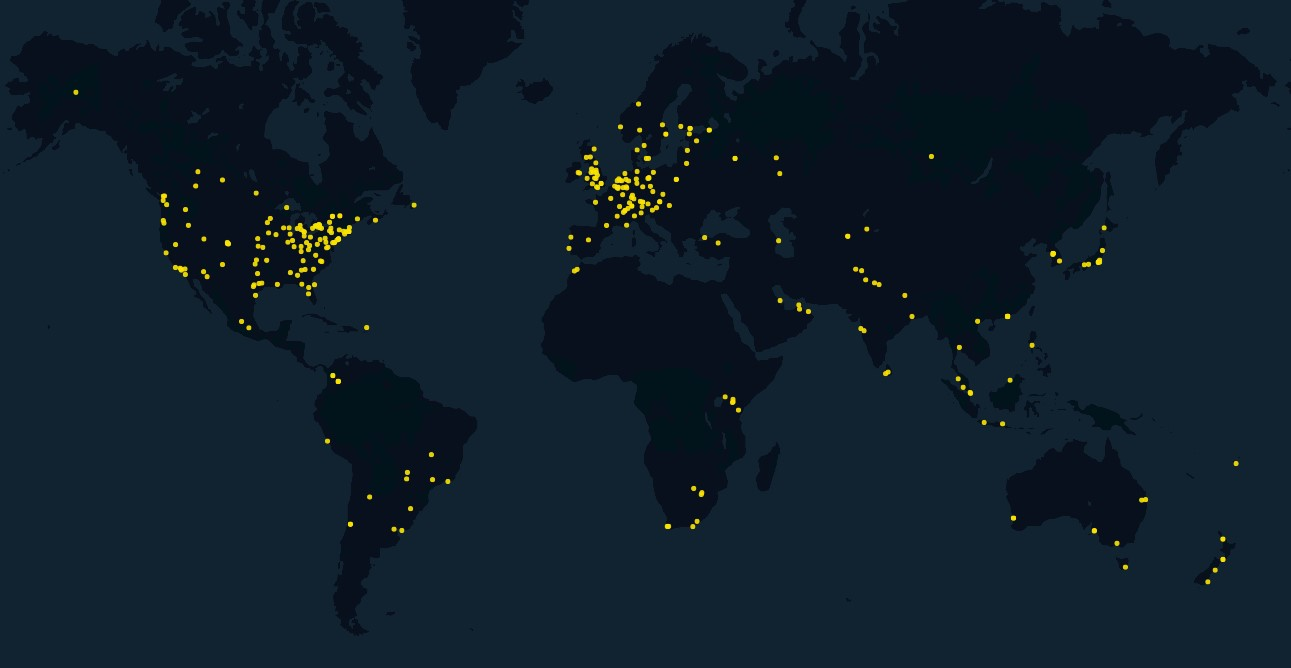
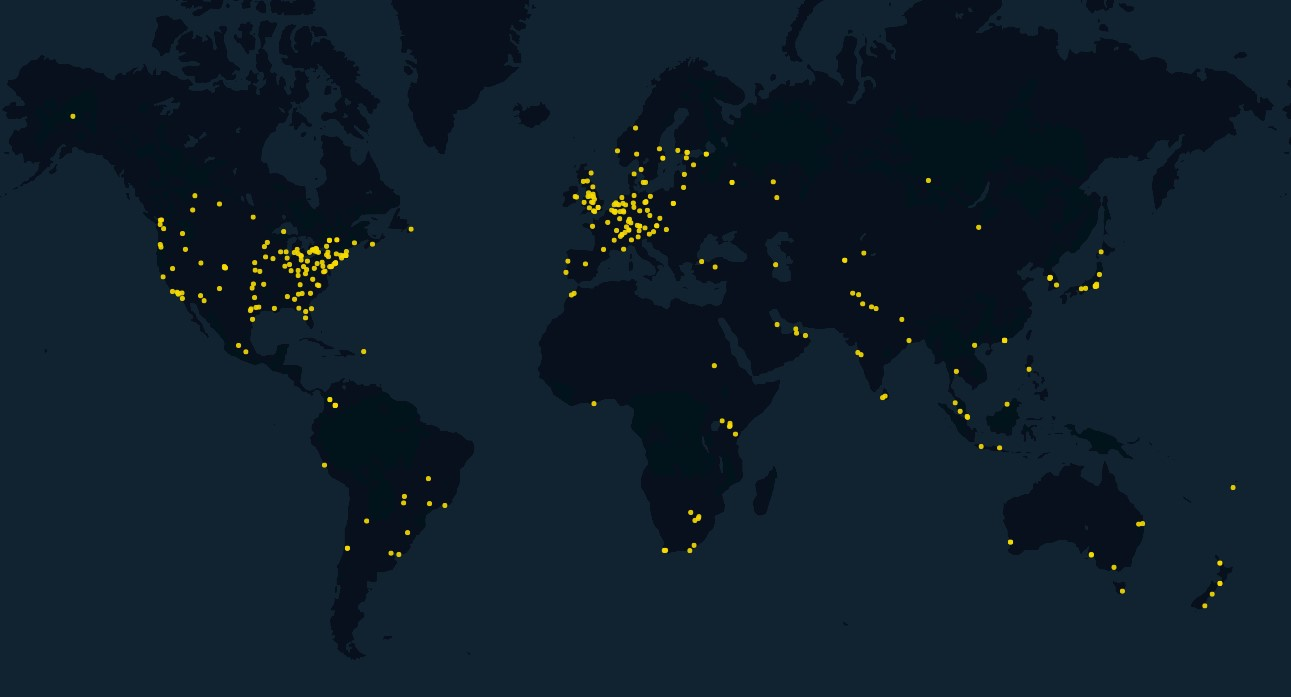
africa

diff --git a/pages/africa/south_africa.md b/pages/africa/south_africa.md
@@ -83,3 +83,11 @@ Cape Town, Western Cape, South Africa
 Unit: [Faculty of Engineering & the Built Environment](https://www.cput.ac.za/academic/faculties/engineering)
 
 The Faculty of Engineering & the Built Environment at CPUT operates a [M.Tech program in Cartography](https://www.cput.ac.za/academic/faculties/engineering/prospectus/course?i=132&seo=TVRlY2g6IENBUlRPR1JBUEhZ) under its Civil Engineering & Geomatics department. In addition to this, the department also operates several undergraduate and non-degree programs in geomatics.
+
+### North-West University
+
+Potchefstroom, North-West, South Africa
+
+Unit: [School of Geo and Spatial Sciences](https://natural-sciences.nwu.ac.za/geo-spatial-sciences/about-us) and [Unit for Environmental Sciences and Management](https://natural-sciences.nwu.ac.za/unit-environmental-sciences-and-management)
+
+The North-West University offers postgraduate diploma training, MSc, and PhD programs in geospatial sciences under the School of Geo and Spatial Sciences, as well as MSc and PhD programs in Urban and Regional Planning under its Unit for Environmental Sciences and Management.

diff --git a/pages/asia/mongolia.md b/pages/asia/mongolia.md
@@ -1,0 +1,9 @@
+## Mongolia
+
+### National University of Mongolia
+
+Ulaanbaatar, Mongolia
+
+Unit: [School of Applied Sciences and Engineering](http://seas.num.edu.mn/)
+
+The National University of Mongolia is the first modern university in Mongolia. It has opportunities for master's and PhD studies in several geography or ecology-related disciplines, such as the [Masters in Forestry (class-based)](http://seas.num.edu.mn/dep/defe/training/master/21/detail/), [Masters in Forestry (thesis-based)](http://seas.num.edu.mn/dep/defe/training/master/20/detail/), [Master in Environmental Sciences](http://seas.num.edu.mn/dep/defe/training/master/19/detail/), [Master in Environment Protection Technology](http://seas.num.edu.mn/dep/defe/training/master/17/detail/), [Doctor in Forestry](http://seas.num.edu.mn/dep/defe/training/doctor/10/detail/) and [Doctor in Environmental Studies](http://seas.num.edu.mn/dep/defe/training/doctor/7/detail/).

diff --git a/README.md b/README.md
@@ -120,6 +120,8 @@ To date, we have summarized more than 270 GIS programs in more than 35 countries
 
 [Central Asia](https://gisphere.github.io/pages/asia/central_asia.html)
 
+[Mongolia](https://gisphere.github.io/pages/asia/mongolia.html)
+
 **Oceania**
 
 [Australia](https://gisphere.github.io/pages/asia/Australia.html)
@@ -143,11 +145,15 @@ To date, we have summarized more than 270 GIS programs in more than 35 countries
 
 [Botswana](https://gisphere.github.io/pages/africa/Botswana.html)
 
+[Ghana](https://gisphere.github.io/pages/africa/ghana.html)
+
 [Kenya](https://gisphere.github.io/pages/africa/kenya.html)
 
 [Morocco](https://gisphere.github.io/pages/africa/morocco.html)
 
 [South Africa](https://gisphere.github.io/pages/africa/south_africa.html)
+
+[Sudan](https://gisphere.github.io/pages/africa/sudan.html)
 
 [Nigeria](https://gisphere.github.io/pages/africa/nigeria.html) - coming soon
 

diff --git a/pages/africa/sudan.md b/pages/africa/sudan.md
@@ -1,0 +1,23 @@
+## Sudan
+
+### University of Khartoum
+
+Khartoum, Sudan
+
+Unit: [Graduate College](https://graduate.uofk.edu/)
+
+The University of Khartoum is the largest and oldest university in Sudan. The university has several relevant programs, including:
+- PhD in Cartography and GIS
+- PhD in GIS and Remote Sensing
+- PhD in Geographical and Environmental Sciences
+- PhD in Geographical Planning and Development
+- PhD in Forestry
+- PhD in Surveying Engineering
+- PhD in Environmental Sciences
+- Master of Science in GIS and Remote Sensing
+- Master of Science in Geomatics Engineering
+- Master of Public and Environmental Health
+- Master in Environmental Forestry
+- Master of Science in Urban Design
+- Master of Science in Urban Planning and Management
+The complete graduate program list can be accessed [here](https://graduate.uofk.edu/Programmes).

diff --git a/pages/africa/ghana.md b/pages/africa/ghana.md
@@ -1,0 +1,7 @@
+## Ghana
+
+### University of Cape Coast
+
+Cape Coast, Ghana
+
+The University of Cape Coast is home to a [MA in Geography and Regional Planning](https://ucc.edu.gh/programmes/master-arts-geography-and-regional-planning) program as well as a [MPhil in Geography and Regional Planning](https://ucc.edu.gh/programmes/master-philosophy-geography-and-regional-planning) program, both of which requires intense trainings in geospatial techniques and quantitative geographic methods. It also has opportunities for a [PhD in Geography](https://ucc.edu.gh/programmes/doctor-philosophy-geography) or a [PhD in Geography and Regional Planning](https://ucc.edu.gh/programmes/doctor-philosophy-geography-and-regional-planning).
